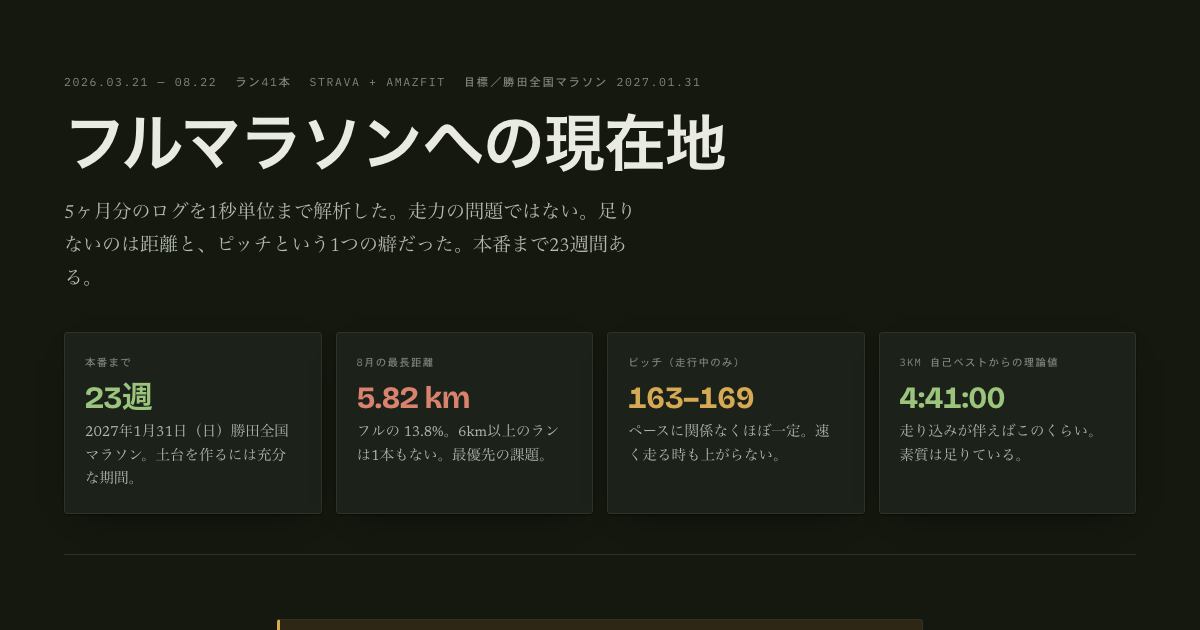
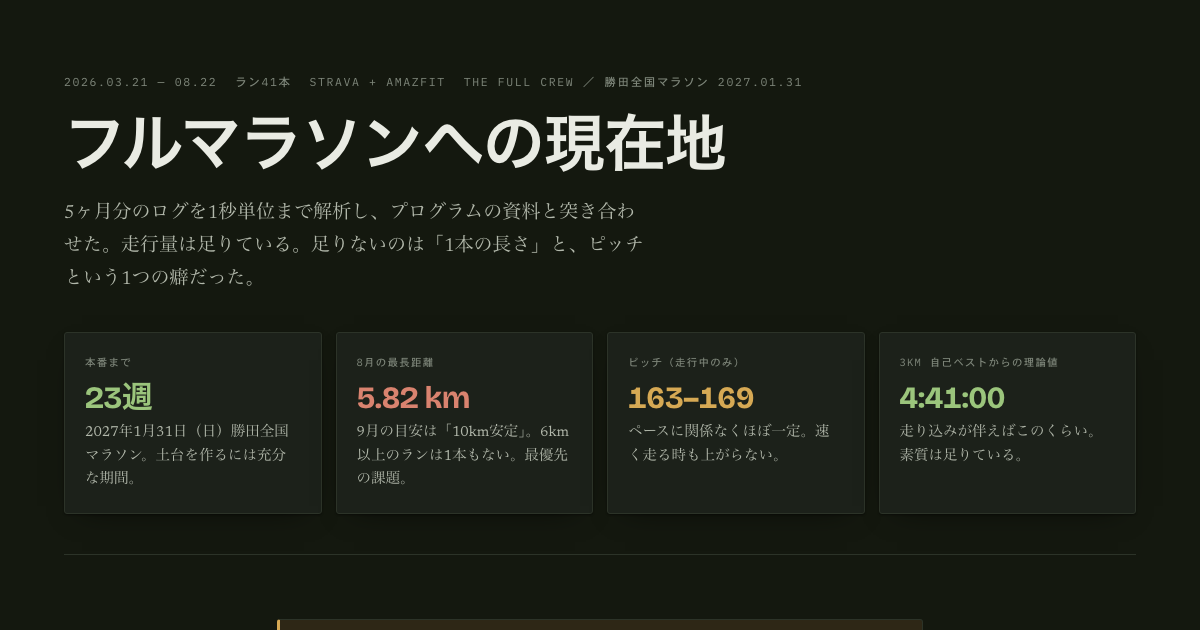
先生のプログラム資料との照合を追加、計画をロードマップ準拠に修正

Changed region(s): [[0.0617, 0.3016, 0.5242, 0.4524], [0.2775, 0.6635, 0.4625, 0.7841], [0.37, 0.1206, 0.6475, 0.1508]]

diff --git a/index.html b/index.html
@@ -4,10 +4,10 @@
 <meta charset="utf-8">
 <meta name="viewport" content="width=device-width, initial-scale=1">
 <meta name="robots" content="noindex, nofollow, noarchive, nosnippet">
-<meta name="description" content="Strava・Amazfitの5ヶ月分のログ解析と、2027年1月31日の勝田全国マラソンから逆算した23週間のトレーニング計画。">
+<meta name="description" content="Strava・Amazfitの5ヶ月分のログ解析と、THE FULL CREWのロードマップとの照合。">
 <meta property="og:type" content="article">
 <meta property="og:title" content="フルマラソンへの現在地">
-<meta property="og:description" content="5ヶ月分のランログを1秒単位で解析。ピッチ・接地時間の課題と、勝田全国マラソンまで23週間の計画。">
+<meta property="og:description" content="5ヶ月分のランログを1秒単位で解析。プログラムの資料と突き合わせた現状と課題。">
 <meta property="og:url" content="https://tmisawa1129-lgtm.github.io/run-report-7f3a/">
 <meta property="og:image" content="https://tmisawa1129-lgtm.github.io/run-report-7f3a/ogp.png">
 <meta name="twitter:card" content="summary_large_image">
@@ -144,7 +144,16 @@ footer p{margin:0 0 8px}
 .legend{display:flex; flex-wrap:wrap; gap:8px 20px; font-family:"IBM Plex Mono",monospace; font-size:11px; color:var(--ink-3); margin-top:14px; letter-spacing:.04em}
 .legend span{display:flex; align-items:center; gap:7px}
 .dot{width:9px; height:9px; border-radius:50%; display:inline-block}
-@media (max-width:620px){ body{font-size:16px} .wrap{padding:0 18px 72px} .masthead{padding:48px 0 32px} }
+/* 心拍ゾーンの積み上げバー */
+.zrow{margin:20px 0 4px}
+.zrow .zlab{display:flex; justify-content:space-between; align-items:baseline; font-family:"IBM Plex Mono",monospace; font-size:12px; color:var(--ink-3); margin-bottom:7px}
+.zbar{display:flex; height:34px; border-radius:3px; overflow:hidden; border:1px solid var(--line-2)}
+.zbar span{display:flex; align-items:center; justify-content:center; font-family:"IBM Plex Mono",monospace; font-size:11.5px; font-weight:600; color:#12160F; min-width:0; overflow:hidden}
+.zkey{display:flex; flex-wrap:wrap; gap:6px 18px; margin-top:12px; font-family:"IBM Plex Mono",monospace; font-size:11.5px; color:var(--ink-3)}
+.zkey i{display:inline-block; width:10px; height:10px; border-radius:2px; margin-right:6px; vertical-align:middle; font-style:normal}
+.target-line{margin-top:14px; padding:11px 14px; border-left:3px solid var(--warn); background:var(--warn-soft); font-size:14.5px; color:var(--ink-2); border-radius:0 3px 3px 0}
+
+@media (max-width:620px){ body{font-size:16px} .wrap{padding:0 18px 72px} .masthead{padding:48px 0 32px} .zbar span{font-size:10px} }
 
 @media print{
   /* ダークテーマ用の :root:not([data-theme="light"]) より詳細度を高くして必ず勝たせる */
@@ -182,10 +191,10 @@ footer p{margin:0 0 8px}
 
 <header class="masthead">
   <div class="eyebrow">
-    <span>2026.03.21 — 08.22</span><span>ラン41本</span><span>Strava + Amazfit</span><span>目標／勝田全国マラソン 2027.01.31</span>
+    <span>2026.03.21 — 08.22</span><span>ラン41本</span><span>Strava + Amazfit</span><span>THE FULL CREW ／ 勝田全国マラソン 2027.01.31</span>
   </div>
   <h1>フルマラソンへの現在地</h1>
-  <p class="standfirst">5ヶ月分のログを1秒単位まで解析した。走力の問題ではない。足りないのは距離と、ピッチという1つの癖だった。本番まで23週間ある。</p>
+  <p class="standfirst">5ヶ月分のログを1秒単位まで解析し、プログラムの資料と突き合わせた。走行量は足りている。足りないのは「1本の長さ」と、ピッチという1つの癖だった。</p>
 
   <div class="verdict">
     <div class="vcard good">
@@ -196,7 +205,7 @@ footer p{margin:0 0 8px}
     <div class="vcard crit">
       <div class="k">8月の最長距離</div>
       <div class="v">5.82 km</div>
-      <div class="n">フルの 13.8%。6km以上のランは1本もない。最優先の課題。</div>
+      <div class="n">9月の目安は「10km安定」。6km以上のランは1本もない。最優先の課題。</div>
     </div>
     <div class="vcard warn">
       <div class="k">ピッチ（走行中のみ）</div>
@@ -352,14 +361,80 @@ footer p{margin:0 0 8px}
   <div class="col">
     <p>3kmの自己ベスト17分02秒（8月19日）から換算すると、フルの理論値は<strong>4時間41分</strong>になる。スピードの素質という点では、サブ5どころかサブ4.5が射程に入る数字だ。</p>
     <p>ただしこの換算式は「その距離に必要な走り込みができている」ことが前提になっている。最長5.8kmの状態で42kmに出れば、30km過ぎで脚が止まり、理論値より30分から1時間は遅くなる。<strong>足りないのは能力ではなく、その能力を42km持たせるための土台</strong>である。</p>
-    <p>幸い、本番の2027年1月31日まで<strong>23週間ある</strong>。月間50kmから130kmへは2.6倍で、一気にやれば故障するが、23週かけて段階的に上げるなら十分に届く。<em>期間は足りている</em>。</p>
+    <p>幸い、本番の2027年1月31日まで<strong>23週間ある</strong>。しかも走行量そのものは、すでにプログラムのロードマップを上回っている。積み増すべきは総量ではなく「1本の長さ」だけで、<em>期間は充分に足りている</em>。</p>
     <p>そしてもう1つ。歩幅で押す走りは1歩あたりの負担が大きく、距離が伸びるほど不利に働く。ピッチの改善は、フォームの美しさの話ではなく<em>後半に脚を残すための対策</em>として効いてくる。</p>
   </div>
 </section>
 
 <section>
   <div class="col">
-    <div class="shead"><span class="snum">05</span><h2>目標タイムを決める</h2></div>
+    <div class="shead"><span class="snum">05</span><h2>プログラムの方針と、実際の走り方のズレ</h2></div>
+    <p class="sub">THE FULL CREW の資料に書かれている基準に、7〜8月の実データを当てはめる</p>
+
+    <p>プログラムの資料には「<strong>初心者の練習の80〜90%はZone 2が正解</strong>」と明記されている。Zone 2は「楽に話せるペース」で、最大心拍の60〜70%にあたる。時計の設定上、最大心拍は184とされているので、Zone 2は<strong>おおよそ110〜127拍</strong>になる。</p>
+    <p>7月と8月の全ラン、合計19時間23分を1秒ずつ心拍で仕分けた結果がこれである。</p>
+  </div>
+
+  <figure>
+    <figcaption>心拍ゾーンごとの滞在時間<span class="cap-note">2026年7〜8月／Amazfit装着後の全ラン20本・計1,163分</span></figcaption>
+
+    <div class="zrow">
+      <div class="zlab"><span>7月 ＋ 8月 合計</span><span>1,163分</span></div>
+      <div class="zbar">
+        <span style="width:21.4%; background:var(--accent-soft)">21%</span>
+        <span style="width:45.8%; background:var(--accent)">46%</span>
+        <span style="width:25.6%; background:var(--warn)">26%</span>
+        <span style="width:6.8%;  background:var(--crit); color:#fff">7%</span>
+        <span style="width:0.4%;  background:var(--ink-2)"></span>
+      </div>
+    </div>
+
+    <div class="zrow">
+      <div class="zlab"><span>7月</span><span>742分</span></div>
+      <div class="zbar">
+        <span style="width:28.5%; background:var(--accent-soft)">29%</span>
+        <span style="width:37.4%; background:var(--accent)">37%</span>
+        <span style="width:29.6%; background:var(--warn)">30%</span>
+        <span style="width:4.6%;  background:var(--crit); color:#fff">5%</span>
+      </div>
+    </div>
+
+    <div class="zrow">
+      <div class="zlab"><span>8月</span><span>421分</span></div>
+      <div class="zbar">
+        <span style="width:9.0%;  background:var(--accent-soft)">9%</span>
+        <span style="width:60.6%; background:var(--accent)">61%</span>
+        <span style="width:18.6%; background:var(--warn)">19%</span>
+        <span style="width:10.6%; background:var(--crit); color:#fff">11%</span>
+        <span style="width:1.2%;  background:var(--ink-2)"></span>
+      </div>
+    </div>
+
+    <div class="zkey">
+      <span><i style="background:var(--accent-soft)"></i>Zone 1 ／ 〜109拍</span>
+      <span><i style="background:var(--accent)"></i>Zone 2 ／ 110〜127拍</span>
+      <span><i style="background:var(--warn)"></i>Zone 3 ／ 128〜146拍</span>
+      <span><i style="background:var(--crit)"></i>Zone 4 ／ 147〜164拍</span>
+      <span><i style="background:var(--ink-2)"></i>Zone 5 ／ 165拍〜</span>
+    </div>
+
+    <div class="target-line"><strong>Zone 1＋2 は 67.2%。</strong>プログラムの目安である80〜90%に届いていない。差を埋めているのは Zone 3（26%）で、ここは「楽でもきつくもない、一番中途半端な強度」にあたる。</div>
+  </figure>
+
+  <div class="col">
+    <p>ただし<em>方向としては good</em>である。7月の Zone 1＋2 は 66%、8月は 70%。わずかだが増えている。8月に限れば Zone 2 単独で 60.6% を占めており、<strong>ジョグそのものは正しい強度で走れている</strong>。</p>
+    <p>問題は Zone 3 の使い方だ。8月のZone 3・19%の大半は、8月19日と20日のペース走で発生している。この2本は心拍143〜150、資料の分類でいえば Zone 3〜4 にあたる。<strong>プログラムが「慣れてから」としているテンポ走を、土台ができる前に始めてしまっている</strong>状態である。</p>
+    <div class="callout">
+      <div class="c-lab">資料と照合して分かること</div>
+      <p>先生の指摘「ピッチ170台」は、配布資料には載っていない。資料のフォーム3ポイントは<strong>前傾・腕振り・オーバーストライド回避</strong>の3つで、ピッチは含まれていない。</p>
+      <p style="margin-bottom:0">つまりこれは、走りを直接見た上での<strong>個別指摘</strong>だったことになる。そして歩幅107〜111cmというデータは、資料が挙げる「オーバーストライドを避ける」にそのまま該当していた。一般論と個別指導が、同じ一点を指している。</p>
+    </div>
+  </div>
+</section>
+
+<section>
+  <div class="col">
+    <div class="shead"><span class="snum">06</span><h2>目標タイムを決める</h2></div>
     <p class="sub">勝田は平坦基調のコース。1月末で気温も低く、記録は出やすい条件</p>
     <p>いまは暑熱下（25〜33℃）で走っている。1月末の勝田は気温一桁が普通で、同じ努力でも心拍が下がりペースは上がる。<strong>この気温差は、そのまま追い風になる。</strong></p>
   </div>
@@ -383,58 +458,66 @@ footer p{margin:0 0 8px}
 
 <section>
   <div class="col">
-    <div class="shead"><span class="snum">06</span><h2>本番までの23週間</h2></div>
-    <p class="sub">2026年8月24日 — 2027年1月31日／日曜をロング走の日と仮定して逆算</p>
+    <div class="shead"><span class="snum">07</span><h2>プログラムのロードマップと、いまの位置</h2></div>
+    <p class="sub">計画は THE FULL CREW のロードマップに従う。以下はそこに実データを重ねたもの</p>
+
+    <p>練習計画はすでにプログラム側で用意されている。月2回の合同練習会があり、11月以降は駒沢公園で30km走も組まれている。<strong>ここで独自の計画を立てる必要はない</strong>。やるべきは、ロードマップに対して自分がどこにいるかを把握することだけである。</p>
+  </div>
+
+  <div class="tablebox">
+    <table>
+      <thead><tr><th>月</th><th>プログラムの目安</th><th>実績</th><th>判定</th></tr></thead>
+      <tbody>
+        <tr><td>7月</td><td>習慣化／〜20km</td><td>82.0km・10本</td><td class="good">達成</td></tr>
+        <tr><td>8月</td><td>ジョグ習慣／〜30km</td><td>50.7km・13本</td><td class="good">達成</td></tr>
+        <tr class="mark"><td>9月</td><td><strong>10km安定</strong>／〜50km</td><td>現在の最長 5.82km</td><td class="crit">ここが課題</td></tr>
+        <tr><td>10月</td><td>20km挑戦／〜70km</td><td>—</td><td>—</td></tr>
+        <tr><td>11月</td><td>30kmピーク／〜90km</td><td>—</td><td>—</td></tr>
+        <tr><td>12月</td><td>テーパリング／〜50km</td><td>—</td><td>—</td></tr>
+      </tbody>
+    </table>
+  </div>
+
+  <div class="col">
+    <p>この表が、これまでの分析を1行にまとめている。<strong>走行量ではロードマップを大きく上回っているのに、「1本の長さ」だけが取り残されている。</strong>9月に求められるのは「10km安定」だが、いまの最長は5.82kmで、その半分をわずかに超える程度しかない。</p>
+    <p>裏を返せば、<em>やることは1つに絞られる</em>。総量を増やす必要はない。いまの月50kmの中身を組み替えて、長い1本を作るだけでいい。</p>
 
     <div class="phase">
-      <div class="p-when">第1期 ／ 9〜10月（9週）— 土台を作る</div>
-      <h4>1本を長くする。ペースは完全に捨てる</h4>
-      <p>週1回のロング走を作り、8km から 20km まで少しずつ伸ばす。ペースは7'30"〜8'00"、心拍130以下を厳守。速く走りたくなるが、この期間に見るのは距離だけ。</p>
+      <div class="p-when">9月にやること（ロードマップ：10km安定）</div>
+      <h4>週1本を長い日にする。総量は増やさなくていい</h4>
+      <p>いまは13本すべてが4〜6kmに揃っている。このうち週1本を長い日に変え、6 → 8 → 10 → 10km と伸ばす。他の日はむしろ短くしてよい。</p>
       <ul>
-        <li>ロング走：8 → 10 → 12 → 14 → 12 → 16 → 18 → 20 → 16 km</li>
-        <li>ジョグ：週2〜3本、5km前後（いまのままでよい）</li>
-        <li>月間目標：9月 80km ／ 10月 100km</li>
+        <li>ペースは 8'00"〜8'30"、<strong>心拍127以下（Zone 2）</strong>を厳守。遅すぎるくらいでちょうどいい</li>
+        <li>ペース走は9月いっぱい休む。Zone 3を26%→20%以下に下げるのが狙い</li>
+        <li>合同練習会の翌日は完全休養か軽いジョグに充てる</li>
       </ul>
     </div>
 
     <div class="phase">
-      <div class="p-when">第2期 ／ 11〜12月（9週）— フォームと距離を同時に</div>
-      <h4>全部のランでピッチ170を固定し、30kmに到達する</h4>
-      <p>距離を伸ばしながら、意識する対象をピッチ1つに絞る。メトロノームアプリを170bpmで鳴らして走ると習得が早い。ピッチが上がれば歩幅は自然に縮むので、歩幅は意識しない。</p>
+      <div class="p-when">全期間を通して意識すること</div>
+      <h4>ピッチ170。意識する対象はこれ1つだけ</h4>
+      <p>先生の個別指摘であり、配布資料の「オーバーストライドを避ける」とも一致する。メトロノームアプリを170bpmで鳴らして走ると習得が早い。<strong>ピッチが上がれば歩幅は自動的に縮む</strong>ので、歩幅は意識しない。</p>
       <ul>
-        <li>ロング走：22 → 20 → 25 → 22 → 25 → <strong>30km（12/13）</strong> → 20 → 28 km</li>
-        <li>閾値走：6'15"/kmで20分を月2回（スピードの維持）</li>
-        <li>判定基準：ピッチ170以上／接地280ms以下／歩幅は縮んでよい</li>
-        <li>月間目標：11月 120km ／ 12月 130km</li>
+        <li>判定：ピッチ170以上／接地280ms以下／歩幅は縮んでよい</li>
+        <li>この3つが同時に動いたら成功。1つだけ動いた場合は何か違うことをしている</li>
       </ul>
     </div>
 
-    <div class="phase">
-      <div class="p-when">第3期 ／ 1月（5週）— 仕上げと調整</div>
-      <h4>2本目の30kmを終えたら、あとは減らすだけ</h4>
-      <p>1月10日に2本目の30km走を置き、そこから3週かけて距離を落とす。<strong>直前に走り込んでも間に合わないし、疲労を持ち込むだけ</strong>なので、我慢して減らす。</p>
-      <ul>
-        <li>1/3 → 20km ／ 1/10 → <strong>30km走②</strong> ／ 1/17 → 20km ／ 1/24 → 12km</li>
-        <li>月間目標：90km（意図的に落とす）</li>
-        <li>本番2週前から、レース当日と同じ時刻・同じ朝食で走って試す</li>
-      </ul>
-    </div>
-
-    <p style="margin-top:26px">距離を増やす時期は故障が最も起きやすい。<strong>週の増加は前週の10%以内</strong>に抑え、痛みが出たら距離ではなく頻度を落とす。膝や足底に違和感が出た場合、原因は多くの場合ピッチの低さと歩幅の大きさにある。</p>
+    <p style="margin-top:26px">距離を増やす時期は故障が最も起きやすい。資料の<strong>STOPルール</strong>（安静時痛・3日以上続く痛み・37.5度以上の発熱）に該当したら、距離ではなく頻度を落とす。膝や足底の違和感は、多くの場合ピッチの低さと歩幅の大きさが原因になる。</p>
   </div>
 </section>
 
 <section>
   <div class="col">
-    <div class="shead"><span class="snum">07</span><h2>この計画の分かれ目</h2></div>
-    <p class="sub">残り23週で決めておきたいこと</p>
+    <div class="shead"><span class="snum">08</span><h2>先生に確認したいこと</h2></div>
+    <p class="sub">データからは決められなかった点</p>
     <ul style="font-size:16.5px">
-      <li><strong>ロング走を入れる曜日。</strong>週1回、最終的に3時間以上まとまって取れる曜日を1つ固定できるかが、この計画の成否をほぼ決める。上の表は日曜を前提に組んでいる。</li>
-      <li><strong>補給の練習。</strong>30km走ではジェルと給水を本番と同じ形で試す。フルは補給の失敗で崩れることが多く、練習しておく価値が高い。</li>
-      <li><strong>7月19日の44kmは何だったか。</strong>記録時間9.6時間・走行判定2.3時間なので大部分は歩き。ただし「9時間動き続けられた」実績は、初フルの不安要素をかなり潰している。</li>
-      <li><strong>冬装備。</strong>1月末の茨城は氷点下になる朝もある。11月以降のロング走で、寒い時間帯のウェアを試しておく。</li>
+      <li><strong>ロードマップの「〜20km」「〜50km」は月間距離という理解で合っているか。</strong>その読み方だと7月82km・8月50.7kmはすでに大きく上回っていることになる。もし「1回の最長距離」を指しているなら、判定は真逆になり、かなり遅れていることになる。<em>ここの読み違いは計画全体に影響するので、最初に確認したい。</em></li>
+      <li><strong>9月にペース走を止めて、Zone 2のロング走に振り切ってよいか。</strong>Zone 1＋2 が67%と目安を下回っているため、こう判断した。ただしスピードが落ちる懸念もあるので、方針として合っているか見てほしい。</li>
+      <li><strong>ピッチ170を、ジョグを含む全部のランで意識してよいか。</strong>ペースが落ちてもピッチ優先で問題ないか。</li>
+      <li><strong>ロング走を入れる曜日。</strong>最終的に3時間以上まとまって取れる曜日を固定したい。合同練習会との間隔をどう取るのがよいか。</li>
     </ul>
-    <p style="margin-top:18px; font-size:15px; color:var(--ink-3)">※ 勝田全国マラソンの制限時間・関門・エントリー期間は、公式サイトで必ず確認すること。この計画はサブ5想定で組んでいる。</p>
+    <p style="margin-top:18px; font-size:15px; color:var(--ink-3)">※ 目標タイムはサブ5想定。勝田全国マラソンの制限時間・関門・エントリー期間は公式サイトで確認すること。</p>
   </div>
 </section>
 
@@ -468,6 +551,11 @@ footer p{margin:0 0 8px}
     var iw=W-L-R, ih=H-T-B, max=90;
     var y=function(v){ return T+ih-(v/max)*ih; };
     var bw=iw/months.length, out="";
+    // 指導開始（7月＝プログラム開始）の区切り線
+    var gx = L + bw*4;
+    out+='<rect x="'+gx+'" y="'+T+'" width="'+(iw-bw*4)+'" height="'+ih+'" fill="'+C('--accent-soft')+'" fill-opacity="0.5"/>';
+    out+='<line x1="'+gx+'" y1="'+T+'" x2="'+gx+'" y2="'+(T+ih)+'" stroke="'+C('--accent')+'" stroke-width="1.5" stroke-dasharray="4 3"/>';
+    out+='<text x="'+(gx+10)+'" y="'+(T+16)+'" font-family="IBM Plex Mono,monospace" font-size="11" fill="'+C('--accent-ink')+'">▶ 7月 指導開始</text>';
     [0,30,60,90].forEach(function(g){
       out+='<line x1="'+L+'" y1="'+y(g)+'" x2="'+(W-R)+'" y2="'+y(g)+'" stroke="'+C('--line')+'" stroke-width="1"/>';
       out+='<text x="'+(L-12)+'" y="'+(y(g)+4)+'" text-anchor="end" font-family="IBM Plex Mono,monospace" font-size="11" fill="'+C('--ink-3')+'">'+g+'</text>';
